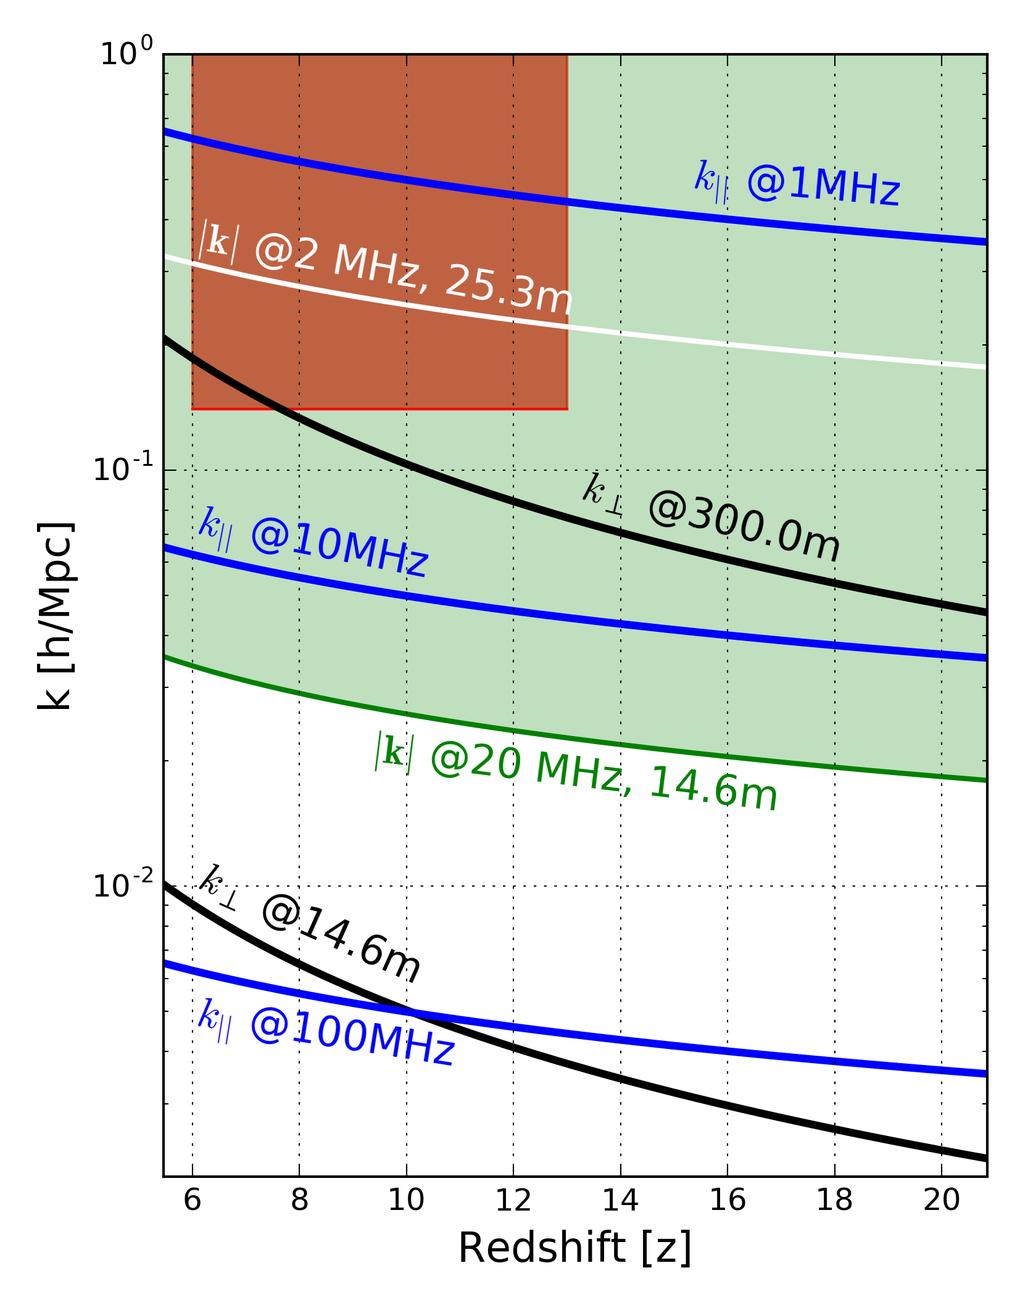
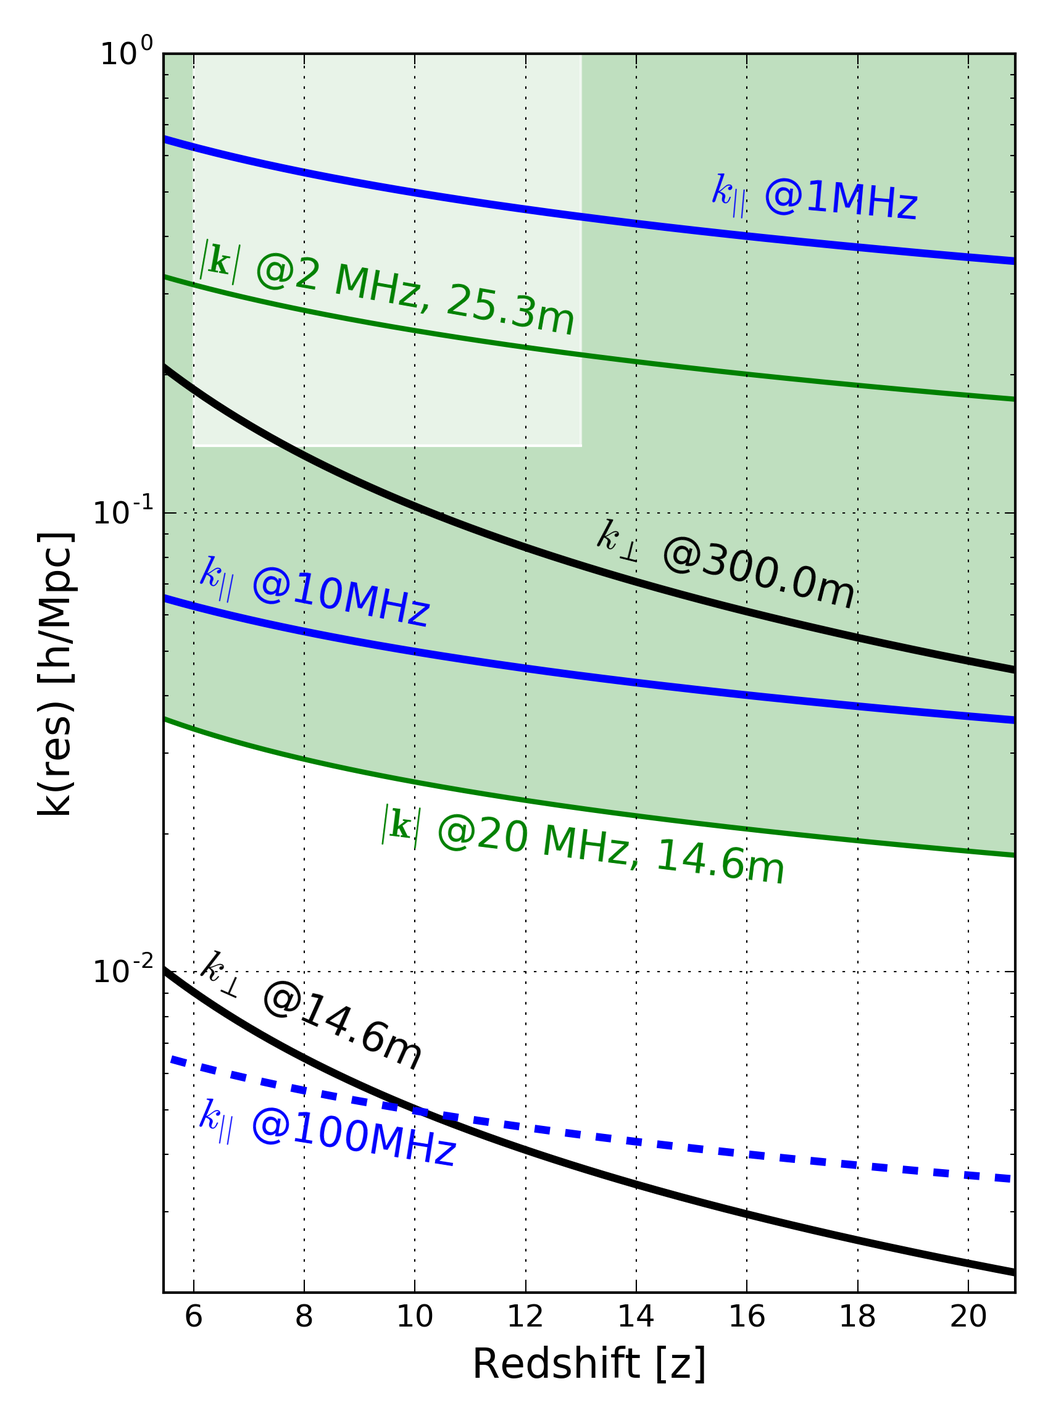
update kperf figure and various throughout manuscript

diff --git a/manuscript.tex b/manuscript.tex
@@ -327,8 +327,54 @@ informing the design and science case of the low-frequency SKA, highlighting are
 Additionally, HERA's constraints enable principal component parameterizations of the
 sky-averaged $21\,\textrm{cm}$ signal measurements pursued by experiments such as EDGES, increasing their signal-to-noise and thus their science return \citep{liu_parsons2015}.
 
-\subsection{Secondary Scientific Objectives}%\\Precision Cosmology, Reionization Imaging, and High-$z$ IGM X-Ray Heating Science}
+\subsection{Existing Measurements}
+\label{sec:existing}
+PAPER adopted a foreground mitigation strategy based largely
+on filtering out the wedge in frequency domain (so-called ``delay filtering"; \citealt{parsons_et_al2012b}).  
+By reducing the need
+for image-domain foreground modeling, this approach allowed PAPER to switch to a grid-based antenna layout that
+enhanced sensitivity toward fewer Fourier modes and facilitated calibration
+based on the ``redundancy" of different antenna pairs measuring the same sky modes \citep{zheng_et_al2014}.
+Combined, redundancy and delay filtering provide a robust, inexpensive, and demonstrably successful solution 
+to the foreground problem.  
+Yet PAPER's lack of imaging support and its uneven $uv$ sampling 
+leave it with limited diagnostic capability, particularly for direction-dependent systematics
+such as polarization leakage from Faraday-rotated emission \Mycitep{moore_et_al2013}.
+While concern over such effects has decreased markedly since discovering that
+intrinsic point source polarization is lower than previously thought
+\citep{asad_et_al2015} and that variable Faraday rotation through the
+ionosphere averages down the polarized signal over long observing seasons
+\Mycitep{moore_et_al2016}, direction-dependent beam effects remain an area of interest.
+The MWA's image-based calibration and foreground subtraction strategy provides complementary
+capabilities. Imaging with subtraction, while still under development as a viable foreground strategy,
+can increase sensitivity by recovering more modes of the cosmological signal (see
+Table~\ref{tab:signif}) and help address systematic errors rooted
+in the image domain.  HERA's antenna configuration---shown in Figure \ref{fig:arrayConfig} and discussed in \S\ref{sec:arrayConfig}---emphasizes
+the proven approaches of redundant calibration and delay filtering, while simultaneously
+increasing the extent and density of $uv$ sampling for high-fidelity imaging.  
 
+\begin{figure}[t]
+	\centering
+	\includegraphics[width=.8\textwidth]{plots/current_limits.pdf}
+	\caption{The current best published $2\sigma$ upper limits on the 21cm power spectrum, $\Delta^2(k)$, (solid symbols represent analyses led by HERA collaborators) compared to 21cmFAST-generated models at $k=0.2$\,$h$\,Mpc$^{-1}$. 
+Analysis is still underway on PAPER and MWA observations that approach their projected 
+full sensitivities (see Fig.~\ref{fig:Sensitivities}); 
+HERA can deliver sub-$\text{mK}^2$ sensitivities.}
+	\vspace{-10pt}
+	\label{fig:limits}
+	\label{fig:IGMtemperatureConstraints}
+\end{figure}
+
+Despite progress, the fact remains that the 21\,cm EoR signal is intrinsically very faint; making a detection requires a
+large instrumental collecting area and a long, dedicated observing campaign.
+Although published PAPER and MWA results (Fig. \ref{fig:limits}) do not yet include observations 
+at full sensitivity that are still being analyzed (e.g. Fig. \ref{fig:Sensitivities}), 
+it is clear already that these instruments lack the sensitivity
+to make a conclusive detection (see Table~\ref{tab:signif}). 
+HERA addresses this shortcoming with a dish element that delivers a much larger collecting area 
+while retaining the necessary characteristics for both proven and forward-looking foreground removal strategies.
+
+\subsection{Secondary Scientific Objectives}%\\Precision Cosmology, Reionization Imaging, and High-$z$ IGM X-Ray Heating Science}
 
 \startsquarepar\emph{\textbf{Precision Cosmology.}}
 \label{sec:tau}
@@ -442,7 +488,6 @@ epoch.
 \subsection{Other Scientific Objectives}
 \label{subsec:broader_science}
 
-
 \noindent With unprecedented sensitivity at this frequency range, HERA can deliver much more than its core 21\,cm science. 
 Some of HERA's broader science impacts derive directly from the public data products HERA delivers.  Other
 areas of impact may require additional hardware or software that HERA can host at no extra risk. 
@@ -506,23 +551,19 @@ Obviously between our present observation point and the Epoch of Reionization ap
 This section will provide a brief overview of existing measurements and the theoretical underpinning of how foregrounds contaminate the measurement (the so-called ``wedge''), discuss the various techniques used to make the measurement and finally provide a brief discussion on calibration issues and techniques.
 
 \subsection{The ``Wedge''}
-The past three
-years have seen deep EoR observations with PAPER, the MWA, 
+The past three years have seen deep EoR observations with PAPER, the MWA, 
 the Giant Metrewave Radio Telescope (GMRT; \citealt{paciga_et_al2013}), and LOFAR.
 PAPER and the MWA have produced progressively deeper limits
 \citep{dillon_et_al2015,parsons_etal2014,ali_et_al2015}, with PAPER
 yielding the first meaningful constraints on the 21\,cm spin temperature during reionization
 (Fig. \ref{fig:limits}).
-The inherent challenge of simultaneously meeting stringent sensitivity requirements 
+The inherent challenge is to simultaneously meet stringent sensitivity requirements 
 while suppressing foregrounds $\sim5$ orders of magnitude
-brighter than the 21\,cm signal make this progress all the more remarkable.  
-To achieve this, HERA team members have refined and improved 
-techniques spanning all aspects of the experimental process, from how we
-calibrate our data \citep{zheng_et_al2014, jacobs_et_al2016, barry_et_al2016}, to how we understand foreground contamination
-\citep{moore_et_al2013,moore_et_al2016,thyagarajan_et_al2015a,pober_et_al2016},
-to how we design the interferometer itself \citep{parsons_et_al2012a,dillon_parsons2016}.
-In this section, we discuss how the legacy of these first generation
-21\,cm experiments inform critical aspects of HERA's design.
+brighter than the 21\,cm signal, which has been addressed along a number of approaches.  
+To address this challenge,  all aspects of the experimental process must be refined and improved, spanning 
+calibration ({\em e.g.} \cite{zheng_et_al2014, jacobs_et_al2016, barry_et_al2016}), handling foreground contamination
+({\em e.g.} \cite{moore_et_al2013,moore_et_al2016,thyagarajan_et_al2015a,pober_et_al2016}),
+and the interferometer design itself ({\em e.g.} \cite{parsons_et_al2012a,dillon_parsons2016}).
 
 Perhaps the most important advance informing HERA's design is a
 refined understanding of how smooth-spectrum foregrounds interact
@@ -536,18 +577,13 @@ signal reflections within antennas, and the angular response of the antenna beam
 that, to the limits of current sensitivity, foreground emission is absent outside of the wedge; it can only 
 appear there through instrumental leakage \citep{parsons_etal2014,ali_et_al2015,moore_et_al2016,kohn_et_al2016}.
 
-
-
-
-
-
-Though the desired measurement is over a volume, it is instructive to split it into two components,  $\kvec =  \kvpr + \kpar{\hat {\bf z}}$ where $\kvpr$ is determined by the antenna baseline and $\kpar$ by the frequency.  This is useful since it allows us to split out the chromatic response of the interferometer and isolate a phase space where foreground sources ({\em i.e.} everything {\em not} the EOR) contaminate the signal of interest from where they don't.  This contaminated phase space may be shown [REF] to be a wedge-shaped region in $\kpr$:$\kpar$ space:
+Though the power spectrum measurement is over a volume, it is instructive to split the spatial wavenumbers into two components,  $\kvec =  \kvpr + \kpar{\hat {\bf z}}$ where $\kvpr$ is determined by the antenna baseline and $\kpar$ by the frequency.  This is useful since it allows us to split out the chromatic response of the interferometer and isolate a phase space where foreground sources ({\em i.e.} everything {\em not} the EOR) contaminate the signal of interest from where they don't.  This contaminated phase space may be shown [REF] to be a wedge-shaped region in $\kpr$:$\kpar$ space:
 \begin{equation}
 |\kpar| \le \beta\frac{X\lambda}{Yc}\kpr + \frac{S}{Y}
 \end{equation}
 where $c$ is the speed of light and $S$ is a parameter accounting for offsets related to the combined spectral smoothness of the foregrounds and the antenna response (see Fig. \ref{fig:wedge}).  
 A key issue to measuring the EOR power spectrum is to understand and minimize such effects.  For an analytical derivation, see \cite{zahn_etal2012,vedantham_2012,liu_et_al2014b},  in simulation see \cite{datta_etal2010,hazelton_et_al2013} and for observations
-\cite{pober_etal2013b,2015arXiv150601026P,parsons_etal2014,2015arXiv150206016A}.  Note that the unit of the spatial wavenumber $k$ is 1/length, in this case the relevant length scale is megaparsecs (Mpc; 1 Mpc = 3.086$\times10^{22}$ m).  In order to normalize for updated measurements of Hubble's constant, it is further normalized by $h$, where $H_o=100h$, such that they are expressed as $h$/Mpc.
+\cite{pober_etal2013b,2015arXiv150601026P,parsons_etal2014,2015arXiv150206016A}.  Note that the unit of the spatial wavenumber $k$ is 1/length, in this case the relevant length scale is megaparsecs (Mpc; 1 Mpc = 3.086$\times10^{22}$ m).  In order to normalize for updated measurements of the Hubble constant, it is further normalized by a factor $h$, where Hubble's constant is expressed as $H_o=100h$ (km/s)/Mpc , such that the wavenumbers are expressed as $h$/Mpc.
 
 \begin{figure}[t]
 \includegraphics[height=3in]{plots/wedgeWithBG.png}
@@ -564,14 +600,14 @@ The techniques to measure the power spectrum may be broken down into two princip
 
 \subsection{Delay-Spectrum Approach}
 \label{sec:delayapproach}
-Given that the response of an interferometer natively measures the power in Fourier modes of the sky within its beam, we see that it is a natural instrument to use for this measurement.  There are now numerous papers in the literature on the technique of measuring the power spectrum using an interferometer and the attendant issues [[[list of citations]]].  Below, a high-level overview based on  \cite{parsons_et_al2012b} will be presented. The so-called delay-spectrum approach leverages this response to optimize sensitivity to the desired modes while rejecting modes contaminated by the foreground power in the wedge.  Other than potentially handling overlapping bins in {\em uv} space, the delay-spectrum approach does not combine baselines before squaring and calculating the power spectrum.
+Given that the response of an interferometer natively measures the power in Fourier modes of the sky within its beam, we see that it is a natural instrument to use for this measurement.  There are now numerous papers in the literature on the technique of measuring the power spectrum using an interferometer and the attendant issues [[[list of citations]]].  Below, a high-level overview based on  \cite{parsons_et_al2012b} will be presented. The so-called delay-spectrum approach leverages the interferometer measurement to optimize sensitivity to the desired modes while rejecting modes contaminated by the foreground power in the wedge.  Other than potentially handling overlapping bins in {\em uv} space, the delay-spectrum approach does not combine baselines before squaring and calculating the power spectrum.
 
 We can essentially relate the sky power spectrum mode ${\hat P}(\kvec)$ to an interferometer baseline visibility ${\tilde V}(\bvec)$, which is the equivalent of the (complex) fringe pattern in a double slit experiment:
 \begin{equation}
 {\hat P}(\kvec) \approx\frac{X^2Y}{4k_B^2}   \left[\frac{{\tilde V}^2(\bvec)}{\Omega_b B/ \lambda^4} \right]
 \label{eq:Pk_baseline}
 \end{equation}
-where $X$ and $Y$ are cosmological parameters relating angular size and spectral frequency to cosmic volumes, $\Omega_b$ is the integrated beam response, $B$ is the effective bandwidth, $\lambda$ is the observation wavelength, and $k_B$ is Boltzmann's constant.  The terms in square brackets are instrumental terms, as opposed to the constants and cosmological parameters.  
+where $X$ and $Y$ are cosmological parameters relating angular size and spectral frequency to cosmic volumes (so, relating wavenumber to physical volume at a given redshift), $\Omega_b$ is the integrated beam response, $B$ is the effective bandwidth, $\lambda$ is the observation wavelength, and $k_B$ is Boltzmann's constant.  The terms in square brackets are instrumental terms, as opposed to the constants and cosmological parameters.  
 Note that at the red-shifts of interest $X$ has a value of about 160 Mpc/deg and $Y$ has a value of about 16 Mpc/MHz.
 Rather than ${\hat P}(\kvec)$, the literature generally works with a volume-normalized parameter given by $\Delta^2(k) = \frac{k^3}{2\pi^2}{\hat P}(\kvec)$.    
 
@@ -587,21 +623,24 @@ to determine the sensitivity of an instrument to the power spectrum per baseline
 \label{eq:sensitivity}
 \end{equation}
 where $\mathcal{N}$ represents the improvement in sensitivity based on the array configuration, which may significantly boost the sensitivity if optimized for this measurement 
-(see \cite{parsons_et_al2012b}).  Fig. \ref{fig:boost} plots this ``boost'' factor for various telescopes under nominal observing campaigns using the delay-spectrum technique.  The large improvement for PAPER and HERA is the fact that the baselines are redundantly placed on appropriate spatial scales, so the same baselines gets many samples.
+(see \cite{parsons_et_al2012b}).  Fig. \ref{fig:boost} plots this ``boost'' factor for various telescopes under nominal observing campaigns using the delay-spectrum technique.  The large improvement for PAPER and HERA is the fact that the baselines are redundantly placed on appropriate spatial scales, so that a more limited number of unique baselines get sampled many times.
+
+
 
 \begin{figure}[h!]
 \includegraphics[width=0.5\textwidth]{plots/boost.png}
-\caption{Representative boost factors ($\mathcal{N}$ in Eq. \ref{eq:sensitivity}) for representative observing campaigns for various instruments.}
+\caption{Representative boost factors ($\mathcal{N}$ in Eq. \ref{eq:sensitivity}) for representative observing campaigns for various instruments.
+ADD NEW HERA CONFIGURATION AND LOFAR AND PUT IN 'HOW TO MAKE THIS PLOT'}
 \label{fig:boost}
 \end{figure}
 
-The power spectrum uses the full magnitude of the {\bf k}-vector, which is set by the antenna baselines and bandwidths.  Note that largest bandwidth (which determines the smallest $\kpar$) is about 10 MHz, for larger bandwidths cosmic evolution begins to impact the result.  Figure \ref{fig:kperf} shows the allowed k-values based on the beamwidth/baseline (gray plus dark-blue overlap regions, the black lines are the limits) and a bandwidth of 10 MHz with 1024 channels (the blue and dark-blue overlap regions, the blue line is the lower limit).  The red-dashed line is the allowed smallest $k$-value attainable with this technique.  Note that at these red-shifts it is essentially set just by the bandwidth.
+The power spectrum uses the full magnitude of the {\bf k}-vector, which is set by the antenna baselines and bandwidths.  Note that largest bandwidth (which determines the smallest $\kpar$) is about 10 MHz, for larger bandwidths cosmic evolution begins to impact the result.  Figure \ref{fig:kperf} shows the allowed k-values based on the beamwidth/baseline (gray plus dark-blue overlap regions, the black lines are the limits) and a bandwidth of 10 MHz with 1024 channels (the blue and dark-blue overlap regions, the blue line is the lower limit).  The red-dashed line is the allowed smallest $k$-value attainable with this technique.  Note that at these red-shifts it is dominated by the bandwidth.
 
 \begin{figure}[h!]
 \centerline{
 \includegraphics[width=.4\textwidth]{plots/kperf.png} 
 }
-\caption{\small ADD NEW HERA CONFIGURATION AND LOFAR AND PUT IN 'HOW TO MAKE THIS PLOT'}
+\caption{\small kperf}
 \label{fig:kperf}
 \end{figure}
 
@@ -615,57 +654,13 @@ In contrast to the delay-spectrum approach, map-making approaches combine baseli
 \subsection{Calibration}
 \label{sec:calibration}
 
-\subsection{Existing Measurements}
-\label{sec:existing}
-PAPER adopted a foreground mitigation strategy based largely
-on filtering out the wedge in frequency domain (so-called ``delay filtering"; \citealt{parsons_et_al2012b}).  
-By reducing the need
-for image-domain foreground modeling, this approach allowed PAPER to switch to a grid-based antenna layout that
-enhanced sensitivity toward fewer Fourier modes and facilitated calibration
-based on the ``redundancy" of different antenna pairs measuring the same sky modes \citep{zheng_et_al2014}.
-Combined, redundancy and delay filtering provide a robust, inexpensive, and demonstrably successful solution 
-to the foreground problem.  
-Yet PAPER's lack of imaging support and its uneven $uv$ sampling 
-leave it with limited diagnostic capability, particularly for direction-dependent systematics
-such as polarization leakage from Faraday-rotated emission \Mycitep{moore_et_al2013}.
-While concern over such effects has decreased markedly since discovering that
-intrinsic point source polarization is lower than previously thought
-\citep{asad_et_al2015} and that variable Faraday rotation through the
-ionosphere averages down the polarized signal over long observing seasons
-\Mycitep{moore_et_al2016}, direction-dependent beam effects remain an area of interest.
-The MWA's image-based calibration and foreground subtraction strategy provides complementary
-capabilities. Imaging with subtraction, while still under development as a viable foreground strategy,
-can increase sensitivity by recovering more modes of the cosmological signal (see
-Table~\ref{tab:signif}) and help address systematic errors rooted
-in the image domain.  HERA's antenna configuration---shown in Figure \ref{fig:arrayConfig} and discussed in \S\ref{sec:arrayConfig}---emphasizes
-the proven approaches of redundant calibration and delay filtering, while simultaneously
-increasing the extent and density of $uv$ sampling for high-fidelity imaging.  
 
-\begin{figure}[t]
-	\centering
-	\includegraphics[width=.8\textwidth]{plots/current_limits.pdf}
-	\caption{The current best published $2\sigma$ upper limits on the 21cm power spectrum, $\Delta^2(k)$, (solid symbols represent analyses led by HERA collaborators) compared to 21cmFAST-generated models at $k=0.2$\,$h$\,Mpc$^{-1}$. 
-Analysis is still underway on PAPER and MWA observations that approach their projected 
-full sensitivities (see Fig.~\ref{fig:Sensitivities}); 
-HERA can deliver sub-$\text{mK}^2$ sensitivities.}
-	\vspace{-10pt}
-	\label{fig:limits}
-	\label{fig:IGMtemperatureConstraints}
-\end{figure}
-
-Despite progress, the fact remains that the 21\,cm EoR signal is intrinsically very faint; making a detection requires a
-large instrumental collecting area and a long, dedicated observing campaign.
-Although published PAPER and MWA results (Fig. \ref{fig:limits}) do not yet include observations 
-at full sensitivity that are still being analyzed (e.g. Fig. \ref{fig:Sensitivities}), 
-it is clear already that these instruments lack the sensitivity
-to make a conclusive detection (see Table~\ref{tab:signif}). 
-HERA addresses this shortcoming with a dish element that delivers a much larger collecting area 
-while retaining the necessary characteristics for both proven and forward-looking foreground removal strategies.
 
 \section{High-Level Requirements} 
 \label{sec:requirements}
-From the science and techniques discussed above, we may derive some high-level requirements.  This section describes frequency and sensitivity requirements that largely set the overall design concept.
+From the science and techniques discussed above, we may derive some high-level requirements, predicating on optimizing for the delay-spectrum approach for detecting the EOR while not unduly limiting other approaches or other science goals.  The fact that HERA is an experiment and not meant to be a long-term general use facility greatly facilitates this optimization. This section describes the element, configuration, frequency and sensitivity requirements that largely set the overall design concept.
 
+\subsection{Antenna Design and Configuration}
 Thus, to open the widest possible window for EoR measurements, HERA must use close-packed antennas that
 minimize signal reflections and deliver significant forward gain relative to their horizon response.
 Tests with prototype HERA antennas (Figs. \ref{fig:orbcommexptandbeammap} and \ref{fig:reflectometry}, discussed in \S\ref{sec:antenna})
@@ -706,6 +701,8 @@ As mentioned earlier (see Fig. \ref{fig:kperf}) we should be able to process at 
 \caption{\small Costing model for a fixed sensitivity system as a function of diameter (thick blue line and left axis) as well as the round-trip delay for 1,2 and 3 feed-vertex trips (dashed red lines and right axis).  The 60 ns spec is indicated by the horizontal dash line, and the two-trip intersection at about 14-meter is the vertical dashed line.  SEE TEXT...
 \label{fig:costfig}}
 \end{figure}
+
+
 
 \subsection{Sensitivity Optimization}
 \label{sec:cost}

diff --git a/plots/kperf.py b/plots/kperf.py
@@ -1,0 +1,118 @@
+import sys
+sys.path.append('/Users/ddeboer/Documents/ubase/Code/cosmo')
+import nedclass
+import matplotlib.pyplot as plt
+import math
+import numpy as np
+
+n = nedclass.ned(H0=100.0)
+
+def mkPlot(restFreq,BW,b,coeff):
+    X = []  # X Mpc/rad
+    Xb = [] # scaled version
+    Xinstr = []  # observed extent in Mpc
+    Y = []  # Y Mpc/GHz
+    DA = [] # angular scale term
+    E = []  # Hubble parameter evolution
+    #Below are just used to get a power-law fit and then plot it post facto
+    apX = []    # approximated X (post-fit numbers put back in)
+    apY = []    # approximated Y ( " )
+    z2fit = []  # range of z's to fit for approximation
+    X2fit = []  #     "    X's   "
+    Y2fit = []  #     "    Y's   "
+
+    # Loop over red-shift
+    z = np.arange(0.1,25,.1)
+    for zi in z:
+        DAi = n.calcUniverse(zi)
+        DA.append(DAi)
+        Xi = DAi*(1.+zi)
+        obsFreq = restFreq/(1.+zi)
+        obsWavelength = 0.3/obsFreq
+        Xbi = Xi/((180.0/math.pi)*1.0)  #convert to degrees
+        X.append(Xi)
+        Xb.append(Xbi)
+        Xbi = Xi*coeff*obsWavelength/b
+        Xinstr.append(Xbi)
+        apX.append(4670.*pow(1.+zi,0.312))
+        E.append(n.Ez)
+        Yi = ( n.Ynu )/restFreq
+        Y.append(Yi)
+        apY.append(64.*pow(1.+zi,0.56))
+        if zi > 6.0 and zi < 9.0:
+            z2fit.append(zi)
+            X2fit.append(Xi)
+            Y2fit.append(Yi)
+    Y = np.array(Y)
+    Xinstr = np.array(Xinstr)
+    kperp = 2.0*np.pi/Xinstr
+    kpar = 2.0*np.pi/(BW*Y)
+    ktot = np.sqrt(2.0*kperp**2 + kpar**2)
+    return z,kperp,kpar,ktot
+
+restFreq = 1.42
+coeff = 1.2
+
+###Make plot
+#zeroth part
+zhera = [6,13]
+khera1 = [.14,.14]
+plt.semilogy(zhera,khera1,'w')
+khera2 = [20,20]
+plt.semilogy(zhera,khera2,'w') 
+plt.fill_between(zhera,khera1,khera2,color='w',alpha='0.65')
+
+#first part (k_tot)
+BW_list = [0.02,.002]
+D_list = [14.6,25.3]
+#txtloc = [[9,.02,-4],[7,.32,-5]]  #wide
+txtloc = [[9.3,.02,-7],[6.0,.34,-10]]  #narrow
+lsc = ['g-','g-']
+tclr = ['g','g']
+for i,BW in enumerate(BW_list):
+    z,kperp,kper,ktot = mkPlot(restFreq,BW,D_list[i],coeff)
+    if i==0:
+        savek = ktot
+    show_label='%.0f MHz, %.1fm' % (1000.*BW,D_list[i])
+    lbl = r'${\bf |k|}$ @%s' % (show_label)
+    plt.semilogy(z,ktot,lsc[i],label=show_label,lw=2) 
+    plt.text(txtloc[i][0],txtloc[i][1],lbl,rotation=txtloc[i][2],color=tclr[i],fontsize=16)
+ktottop = 10.*np.ones(len(z))
+plt.fill_between(z,savek,ktottop,color='g',alpha='0.25')
+plt.fill_between(zhera,khera1,khera2,color='w',alpha='0.65')  ###AND REDO LINE 63
+
+#second part  (k_perp)
+BW = 0.01
+D_list = [14.60,300.0]
+lsc = ['k-','k-']
+#txtloc = [[6,9.8e-3,-17],[13.2,.085,-8]]  #wide
+txtloc = [[6,9.8e-3,-24],[13.2,.085,-14]]  #narrow
+for i,D in enumerate(D_list):
+    show_label = '%.1fm' % (D)
+    z,kperp,kpar,ktot = mkPlot(restFreq,BW,D,coeff)
+    lbl = r'$k_{\perp}$ @%s' % (show_label)
+    plt.semilogy(z,kperp,lsc[i],label=lbl,linewidth=3)
+    plt.text(txtloc[i][0],txtloc[i][1],lbl,rotation=txtloc[i][2],color='k',fontsize=16)
+#plt.fill_between(z,p[0],p[1],color='grey',alpha='0.65')
+
+
+#third part  (k_par)
+D = 14.6
+BW_list = [0.1,0.01,.001]
+lsc = ['b--','b-','b-']
+txtloc = [[6.0,4.6e-3,-9],[6,.07,-11],[15.3,.475,-5]]
+BW_show = ['100MHz','10MHz', '1MHz']
+for i,BW in enumerate(BW_list):
+    show_label = BW_show[i]
+    z,kperp,kpar,ktot = mkPlot(restFreq,BW,D,coeff)
+    lbl = r'$k_{||}$ @%s' % (show_label)
+    plt.semilogy(z,kpar,lsc[i],label=lbl,linewidth=3)
+    plt.text(txtloc[i][0],txtloc[i][1],lbl,rotation=txtloc[i][2],color='b',fontsize=16)
+#plt.fill_between(z,p[0],p[1],color='b',alpha='0.25')
+
+
+plt.xlabel('Redshift [z]',fontsize=16)
+plt.ylabel('k(res) [h/Mpc]',fontsize=16)
+#plt.legend(loc='upper right')
+plt.grid()
+plt.axis([restFreq/0.220 - 1.0,restFreq/0.065-1.0,2e-3,1])
